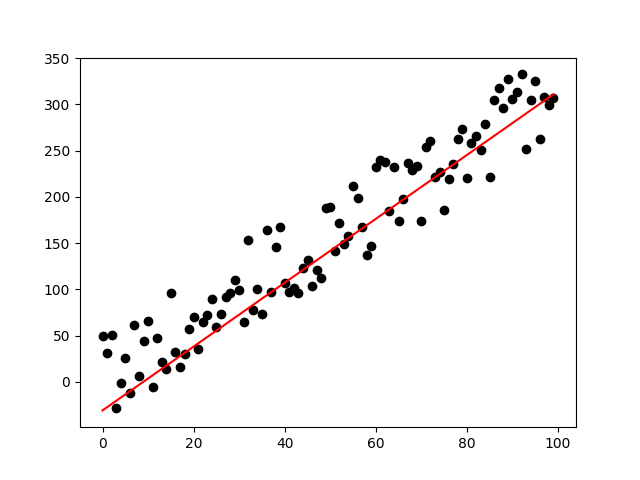
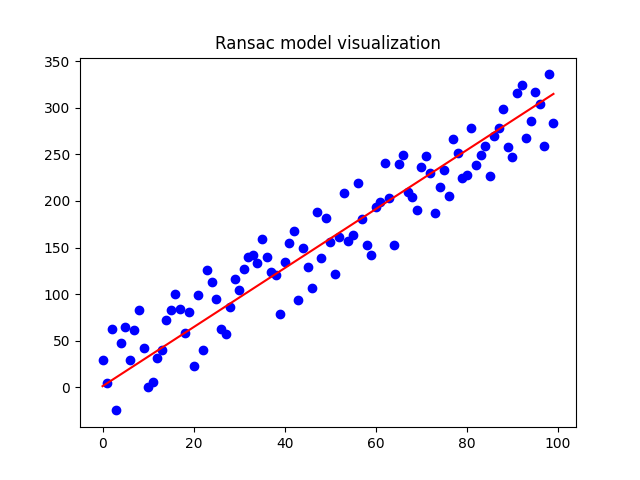
minor corrections and comments

diff --git a/lib/ransac.hpp b/lib/ransac.hpp
@@ -1,11 +1,25 @@
-// Define a linear model as y = mx + c
+/**
+ * @brief Define a linear model as y = ax + b
+ * 
+ * @param a Slope
+ * @param b Intercept
+ */
 struct LinearModel {
-    double m;  // Slope
-    double c;  // Intercept
+    double a;
+    double b;
 };
 
+/**
+ * @brief Construct a new RANSAC object
+ * 
+ * @param threshold Distance threshold for inliers
+ * @param maxIterations Maximum number of RANSAC iterations
+ * @param sampleSize Number of points to sample for fitting the model
+ * @param minInliers Minimum number of inliers required for a successful fit
+ */
 class RANSAC {
 public:
+
     RANSAC(double threshold, int maxIterations, int sampleSize, int minInliers)
         : threshold_(threshold),
           maxIterations_(maxIterations),
@@ -45,7 +59,7 @@ public:
             }
         }
 
-        std::cout << "Best model: m = " << bestModel.m << ", c = " << bestModel.c << std::endl;
+        std::cout << "Best model: a = " << bestModel.a << ", b = " << bestModel.b << std::endl;
         std::cout << "Inlier count: " << bestInlierCount << std::endl;
 
         return bestModel;
@@ -84,17 +98,25 @@ private:
             return LinearModel();
         }
 
-        double m = (n * sumXY - sumX * sumY) / denominator;
-        double c = (sumY - m * sumX) / n;
+        double a = (n * sumXY - sumX * sumY) / denominator;
+        double b = (sumY - a * sumX) / n;
 
-        return { m, c };
+        return { a, b };
     }
 
+    /**
+     * @brief Count the number of inliers during ransac
+     * 
+     * @param x 
+     * @param y 
+     * @param model 
+     * @return int number of inliers
+     */
     int countInliers(const std::vector<double>& x, const std::vector<double>& y, const LinearModel& model) {
         int inlierCount = 0;
 
         for (int i = 0; i < x.size(); ++i) {
-            double predictedY = model.m * x[i] + model.c;
+            double predictedY = model.a * x[i] + model.b;
             double error = std::abs(predictedY - y[i]);
 
             if (error < threshold_) {

diff --git a/src/main.cpp b/src/main.cpp
@@ -14,12 +14,19 @@ LinearModel solver(std::vector<double> x, std::vector<double> y, double threshol
     return ransac.fit(x,y);
 }
 
+/**
+ * @brief Visualize the data and the fitted model and export to a plot image
+ * 
+ * @param x 
+ * @param y 
+ * @param model 
+ */
 void visualize(std::vector<double> x, std::vector<double> y, LinearModel model){
-    // Visualize the data and the fitted model
-    plt::plot(x, y, "ko");  // Data points
+    plt::title("Ransac model visualization");
+    plt::plot(x, y, "bo");  // Data points
     std::vector<double> fittedY(x.size());
     for (int i = 0; i < x.size(); ++i) {
-        fittedY[i] = model.m * x[i] + model.c;
+        fittedY[i] = model.a * x[i] + model.b;
     }
     plt::plot(x, fittedY, "r-");  // Fitted line
     plt::save("../img/plot.png");
@@ -27,10 +34,14 @@ void visualize(std::vector<double> x, std::vector<double> y, LinearModel model){
 
 int main() {
 
+    // Set line parameters
+
     double slope = 3; 
     double intercept = 10;
     double distance = 50;
     int dataPoints = 100;
+
+    // Set ransac parameters
 
     double threshold = 5.0;
     int maxIterations = 1000;
@@ -41,8 +52,6 @@ int main() {
     std::vector<double> x(dataPoints) ;
     std::iota (std::begin(x), std::end(x), 0);
     std::vector<double> y = dataGenerator.generateData(dataPoints);
-
-    std::cout << x.size() << " " << y.size() << std::endl;
 
     LinearModel model = solver(x, y, threshold, maxIterations, sampleSize, dataPoints);
 

diff --git a/lib/RandomDatapointGenerator.hpp b/lib/RandomDatapointGenerator.hpp
@@ -1,10 +1,27 @@
+/**
+ * @brief Construct a new Random Data Point Generator object
+ * 
+ */
 class RandomDataPointGenerator {
 public:
+    /**
+     * @brief Construct a new Random Data Point Generator object
+     * 
+     * @param slope Slope of the line
+     * @param intercept Constant value of the line
+     * @param distance Variance of noise
+     */
     RandomDataPointGenerator(double slope, double intercept, double distance)
         : slope_(slope),
           intercept_(intercept),
           distance_(distance) {}
 
+    /**
+     * @brief Random data generator
+     * 
+     * @param numPoints Number of points to be generated
+     * @return std::vector<double> 
+     */
     std::vector<double> generateData(int numPoints) {
         std::random_device rd;
         std::mt19937 gen(rd());
